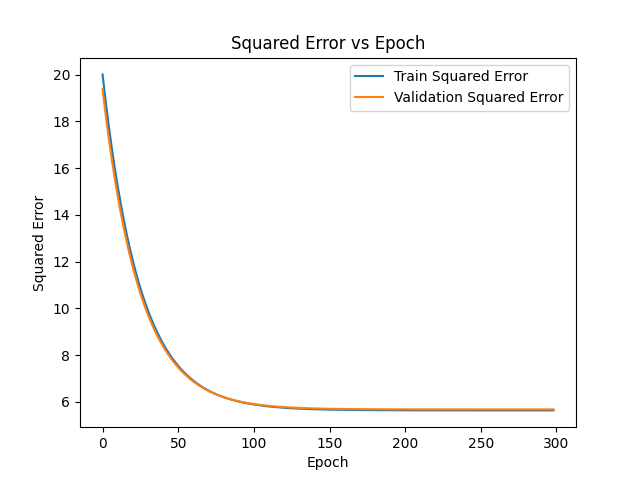
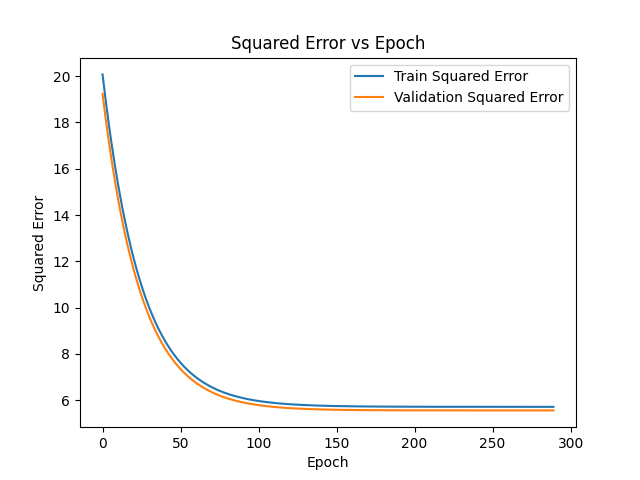
adding graphs and readme

diff --git a/README.md b/README.md
@@ -8,7 +8,6 @@ The processed dataset is too large to store in github so we are storing it in a 
 Please download it and uncompress it and add it to the same folder as your **PassiveSonarUnderWaterDetection** cloned repo or forked branch lives locally. 
 
 
-
 ## Getting Started
 
 First install the requirements needed for this project (NOTE: The SW96_CSDM.zip is needed as well please download and uncompross to local git repo)
@@ -26,9 +25,7 @@ python flatten_sw96_CSDM.py
 
 You should now see a flattened_data.h5 in your local repo folder. If not check terminal for errors and try again.
 
-You should also see **Training_and_Validation.h5** which is our refined and preprocessed dataset after PCA to reduce the large feature set.
-
-So the dataset goes from roughly 300,000 features -> 1256 features with a **Variance retained: 99.66%**
+You should also see **Training_and_Validation.h5** which is our refined and preprocessed dataset after normalization using Z_scoring and flattening a 4500, 21, 21 -> 4500, 441
 
 Now we are ready to train ! Go ahead and run the mlp.py (This is just a basic MLP with shallow layers)
 
@@ -40,7 +37,7 @@ There are other flavors of the training and validation **mlp.py, mlp_skip.py, ml
 
 The **mlp_skip.py** is also a shallow architecture with skip risiduals allowing us to pass data past the first FullyConnected and TanH layers all the way to the second FullyConnected layer
 
-The **mlp_deep.py** is a 50 layer deep architecture with skip risiduals that has multiple FullyConnected and TanH layers with equal parts skip risiduals, our special concoction muhahahah
+The **mlp_deep.py** is a 18 layer deep architecture with skip risiduals that has multiple FullyConnected and TanH layers with equal parts skip residuals, our special concoction muhahahah
 
 All of these are runnable as long as the **Training_and_Validation.h5** data exists, otherwise please see the top of **Getting Started** 
 
@@ -50,16 +47,14 @@ Please note: runtimes may vary and some take longer to run, we added special opt
 
 The first graph is an image of how the training vs validation performs for the shallow mlp with NO skip risiduals, right side is just zoomed in:
 
-MLP Shallow Training VS Validation w.r.t. Epochs             |  MLP Shallow Training VS Validation w.r.t. Epochs Zoomed in
-:-------------------------:|:-------------------------:
-![MLP Shallow Training VS Validation w.r.t. Epochs](Graphs/MLP_Shallow_training_vs_validation.png)  |  ![MLP Shallow Training VS Validation w.r.t. Epochs Zoomed in](Graphs/MLP_Shallow_training_vs_validation_Zoomed.png)
+MLP Shallow Training VS Validation Squared Error w.r.t. Epochs       |  MLP Shallow Training VS Validation Accuracy  |  MLP Shallow ground truth vs prediction
+:-------------------------:|:-------------------------:|:-------------------------:
+![MLP Shallow Training VS Validation w.r.t. Epochs](Graphs/mlp_squared_error.png)  |  ![MLP Shallow Training VS Validation Accuracy](Graphs/DeepNet_Accuracy_Curve.png) |  ![MLP Shallow ground truth vs prediction](Graphs/mlp_ground_truth_prediction.png)
 
-We achieve an Validation Loss, RMSE and SMAPE for Validation in the shallow architecture of: **Validation Loss = 5.7398328336, SMAPE = 0.2900421048, RMSE = 0.0618592372**
+We achieve an Validation Loss, RMSE and SMAPE for Validation in the shallow architecture of: **converged at epoch 2400: Train Loss = 1.0456665818, Val Loss = 10.6331876182, Train Acc = 0.9486666667, Val Acc = 0.7174440000, Train SMAPE = 0.1572280949, Train RMSE = 0.0186699097, Val SMAPE = 0.3876432678, Val RMSE = 0.0841950221**
 
-Epoch 3000: Train Loss = 0.9672478040, Val Loss = 10.3759651500, Train SMAPE = 0.1500510150, Train RMSE = 0.0179562227, Val SMAPE = 0.3783200382, Val RMSE = 0.0831704280
-Converged at epoch 3012
 
-Running the mlp with a skip residual : 
+### Running the mlp with a skip residual : 
 
 ```bash
 python mlp_skip.py
@@ -69,13 +64,23 @@ We can see even better outputs in the following graph. The second graph is an im
 
 One important thing to note with skip residuals in this example is convergance happens much sooner before we would get convergance on epoch 1100  but now with skip residuals we converge around epoch 696
 
-MLP Shallow w. Skip Residual Training VS Validation w.r.t. Epochs             |  MLP Shallow w. Skip Residual Training VS Validation w.r.t. Epochs Zoomed in
+MLP Shallow w. Skip Residual Squared Error Training VS Validation w.r.t. Epochs   |  MLP Shallow w. Skip Residual Accuracy Training vs Validation | MLP shallow w. Skip Residual Prediction vs Ground Truth
+:-------------------------:|:-------------------------:|:-------------------------:
+![MLP Shallow with Skip SE Training VS Validation w.r.t. Epochs](Graphs/mlp_shallow_skip_squared_error.png)  |  ![MLP Shallow with skip Residual Accuracy Training vs Validation](Graphs\DeepNet_Accuracy_Curve.png) |  ![MLP Shallow with skip Training VS Validation w.r.t. Epochs Zoomed in](Graphs/mlp_shallow_skip_ground_Truth_vs_pred.png)
+
+We achieve an Validation Loss, RMSE and SMAPE for Validation in the shallow architecture of: **converged at epoch 4600: Train Loss = 2.7221100732, Val Loss = 11.2383338799, Train Acc = 0.8816666667, Val Acc = 0.6987817778, Train SMAPE = 0.2208306058, Train RMSE = 0.0301227493, Val SMAPE = 0.3947290627, Val RMSE = 0.0865576836**
+
+
+### Running the mlp Deep with a skip residual : 
+
+```bash
+python mlp_deep.py
+```
+
+We can see 
+
+MLP Deep w. Skip Residual Training VS Validation w.r.t. Epochs             |  MLP DEEP with Skip accuracy training vs validation
 :-------------------------:|:-------------------------:
-![MLP Shallow with Skip Training VS Validation w.r.t. Epochs](Graphs/MLP_Shallow_with_Skip_training_vs_validation.png)  |  ![MLP Shallow with skip Training VS Validation w.r.t. Epochs Zoomed in](Graphs/MLP_Shallow_with_Skip_training_vs_validation_Zoomed.png)
+![MLP DEEP with Skip Training VS Validation w.r.t. Epochs](Graphs\DeepNet_MSE.png)  |  ![MLP DEEP with skip accuracy training vs validation ](Graphs\DeepNet_Accuracy_Curve.png)
 
-We achieve an Validation Loss, RMSE and SMAPE for Validation in the shallow architecture of: **Validation Loss = 5.7540781178, SMAPE = 0.2991907063, RMSE = 0.0619359514**
-
-Epoch 4600: Train Loss = 1.4718474086, Val Loss = 10.6940970060, Train SMAPE = 0.1863646859, Train RMSE = 0.0221500746, Val SMAPE = 0.3940859529, Val RMSE = 0.0844358218
-Convergence detected. Early stopping initiated.
-Training Time: 627.61 seconds
-
+We achieve an Validation Loss, RMSE and SMAPE for Validation in the shallow architecture of: **Converged on epoch 280: Train Loss = 5.7057889098, Val Loss = 5.5517457376, Train Accuracy: 0.7527, Val Accuracy: 0.7487, Train SMAPE = 0.2935238322, Train RMSE = 0.0436112329, Val SMAPE = 0.2919700626, Val RMSE = 0.0608372733**
